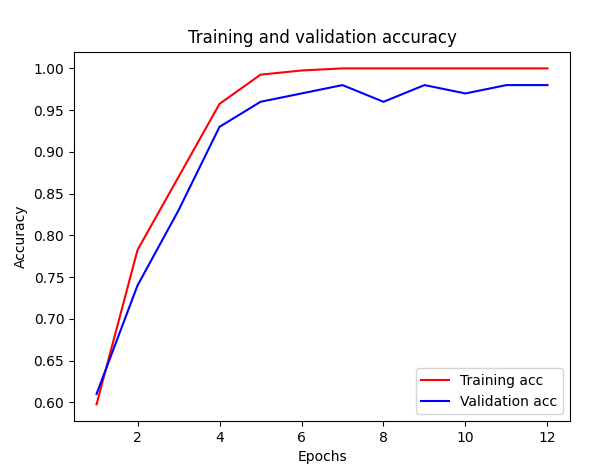
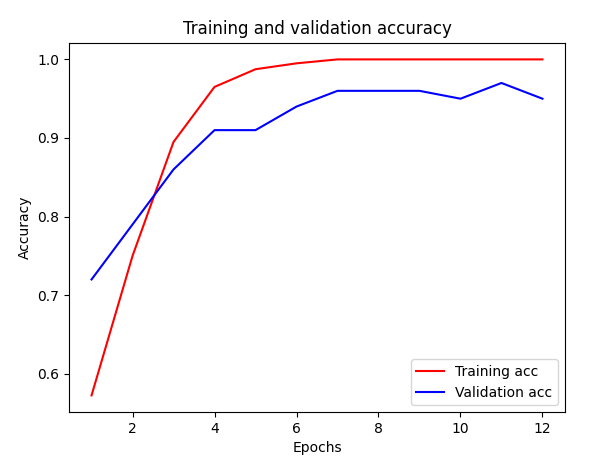
fix gen

Changed region(s): [[0.0, 0.0306, 0.9746, 1.0], [0.4569, 0.2445, 0.4873, 0.2751]]

diff --git a/8382/Chernitsyn/pr/8/var1_pr6.py b/8382/Chernitsyn/pr/8/var1_pr6.py
@@ -1,0 +1,16 @@
+import gens
+import numpy as np
+
+def gen_data(size=500, img_size=50):
+    c1 = size // 2
+    c2 = size - c1
+
+    label_c1 = np.full([c1, 1], 'Square')
+    data_c1 = np.array([gens.gen_rect(img_size) for i in range(c1)])
+    label_c2 = np.full([c2, 1], 'Circle')
+    data_c2 = np.array([gens.gen_circle(img_size) for i in range(c2)])
+
+    data = np.vstack((data_c1, data_c2))
+    label = np.vstack((label_c1, label_c2))
+
+    return data, label

diff --git a/8382/Chernitsyn/pr/8/main.py b/8382/Chernitsyn/pr/8/main.py
@@ -7,7 +7,7 @@ from keras.layers import Dense, Dropout, Flatten, Conv2D, MaxPooling2D
 import matplotlib.pyplot as plt
 from sklearn.preprocessing import LabelEncoder
 from keras.utils import to_categorical
-from var4 import gen_data
+from var1_pr6 import gen_data
 import random
 
 

diff --git a/8382/Chernitsyn/pr/8/gens.py b/8382/Chernitsyn/pr/8/gens.py
@@ -1,6 +1,5 @@
 import numpy as np
 
-
 def gen_rect(size=50):
     img = np.zeros([size, size])
     x = np.random.randint(0, size)
